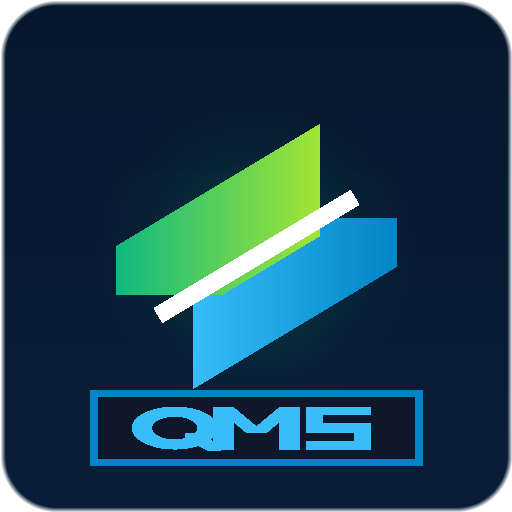
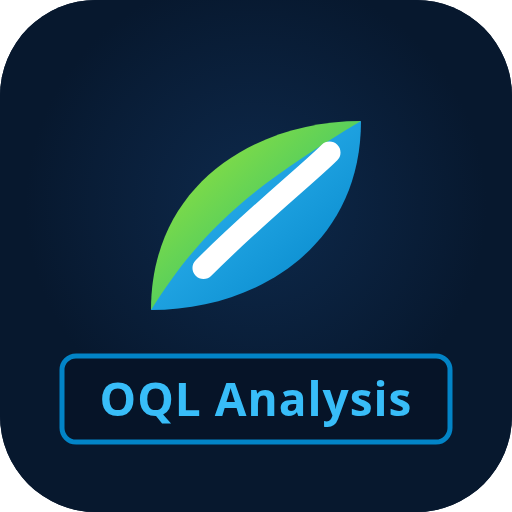
feat(ui): update landing page branding and assets
Refreshed the application landing screen with a new logo and visual styling. Updated site icons and assets to improve brand consistency.

Changed region(s): [[0.0938, 0.2188, 0.9062, 0.9375], [0.0, 0.0, 1.0, 1.0]]

diff --git a/index.html b/index.html
@@ -152,9 +152,14 @@
   </head>
   <body>
     <div id="root">
-      <div style="min-height:100vh;display:flex;flex-direction:column;align-items:center;justify-content:center;background:#07182e;color:#e2e8f0;font-family:system-ui,-apple-system,Segoe UI,Roboto,sans-serif;gap:12px;">
-        <div style="font-size:13px;font-weight:800;letter-spacing:0.12em;text-transform:uppercase;color:#a3e635;">NORTHERN FASHIONS LTD.</div>
-        <div style="font-size:15px;font-weight:700;color:#ffffff;">OQL: Analysis, (Garments Quality)</div>
+      <div style="min-height:100vh;display:flex;flex-direction:column;align-items:center;justify-content:center;background:#07182e;color:#e2e8f0;font-family:system-ui,-apple-system,Segoe UI,Roboto,sans-serif;gap:14px;padding:24px;text-align:center;">
+        <svg viewBox="0 0 40 40" width="76" height="76" fill="none" aria-hidden="true">
+          <path d="M 10 28 C 10 16 20 10 30 10 C 25 18 20 22 10 28 Z" fill="#84cc16" />
+          <path d="M 30 10 C 30 22 20 28 10 28 C 15 20 20 16 30 10 Z" fill="#0ea5e9" />
+          <path d="M 15 24 C 20 19 25 15 27 13" stroke="#ffffff" stroke-width="2" stroke-linecap="round" />
+        </svg>
+        <div style="font-size:24px;font-weight:900;letter-spacing:0.04em;color:#38bdf8;border:2px solid #0284c7;background:#061428;border-radius:12px;padding:6px 20px;">OQL Analysis</div>
+        <div style="font-size:12px;font-weight:800;letter-spacing:0.12em;text-transform:uppercase;color:#a3e635;">NORTHERN FASHIONS LTD.</div>
         <div style="font-size:12px;color:#94a3b8;">Loading workspace...</div>
       </div>
     </div>
